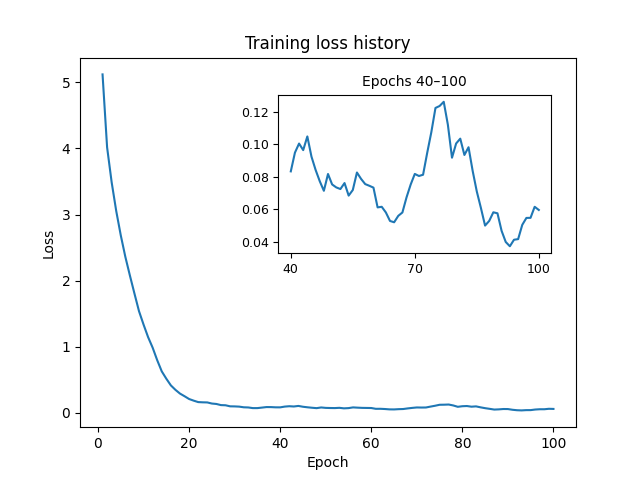
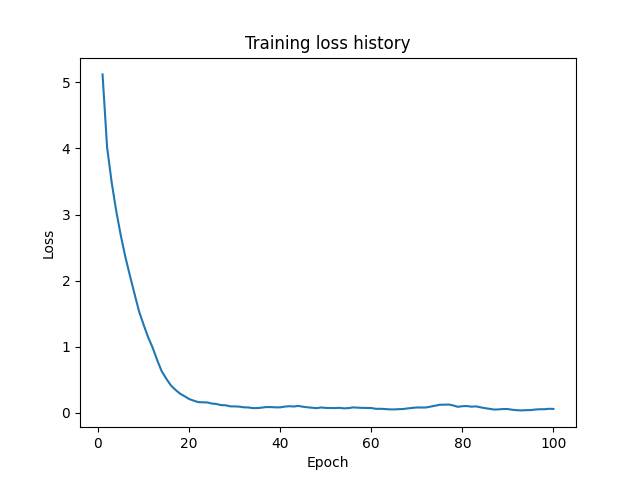
List captioning losses and simplify the high-rate loss plot

diff --git a/main.tex b/main.tex
@@ -299,11 +299,11 @@ We will be implementing the different pieces of a Transformer decoder (\href{htt
 
 \begin{questions}
 \question Paste training loss plots for each of the three hyper-param configs
-\\
-At \(10^{-4}\), the two-layer model reached \textbf{0.6642} and the six-layer
-model reached \textbf{0.2369}. Both losses were lowest at epoch 100.
-At \(10^{-3}\), the six-layer model reached its minimum of \textbf{0.0372}
-at epoch 93 and finished at \textbf{0.0596}. Its minimum meets the 0.05 target.
+\begin{itemize}[nosep]
+    \item 2 heads, 2 layers, LR \(10^{-4}\) — final and minimum \textbf{0.6642} (epoch 100).
+    \item 4 heads, 6 layers, LR \(10^{-4}\) — final and minimum \textbf{0.2369} (epoch 100).
+    \item 4 heads, 6 layers, LR \(10^{-3}\) — final \textbf{0.0596}, minimum \textbf{0.0372} (epoch 93).
+\end{itemize}
 \begin{figure}[H]
     \centering
     \begin{subfigure}[b]{0.32\linewidth}

diff --git a/transformer_captioning/run.py b/transformer_captioning/run.py
@@ -73,12 +73,6 @@ plt.xlabel('Epoch')
 plt.ylabel('Loss')
 os.makedirs('plots', exist_ok=True)
 plt.title('Training loss history')
-if exp_name == 'case3' and len(epochs) >= 40:
-    zoom = plt.gca().inset_axes([0.40, 0.47, 0.55, 0.43])
-    zoom.plot(epochs[39:], trainer.loss_history[39:])
-    zoom.set_title(f'Epochs 40–{epochs[-1]}', fontsize=10)
-    zoom.set_xticks([40, (40 + epochs[-1]) // 2, epochs[-1]])
-    zoom.tick_params(labelsize=9)
 plt.savefig('plots/' + exp_name + '_loss_out.png')
 plt.close()
 
